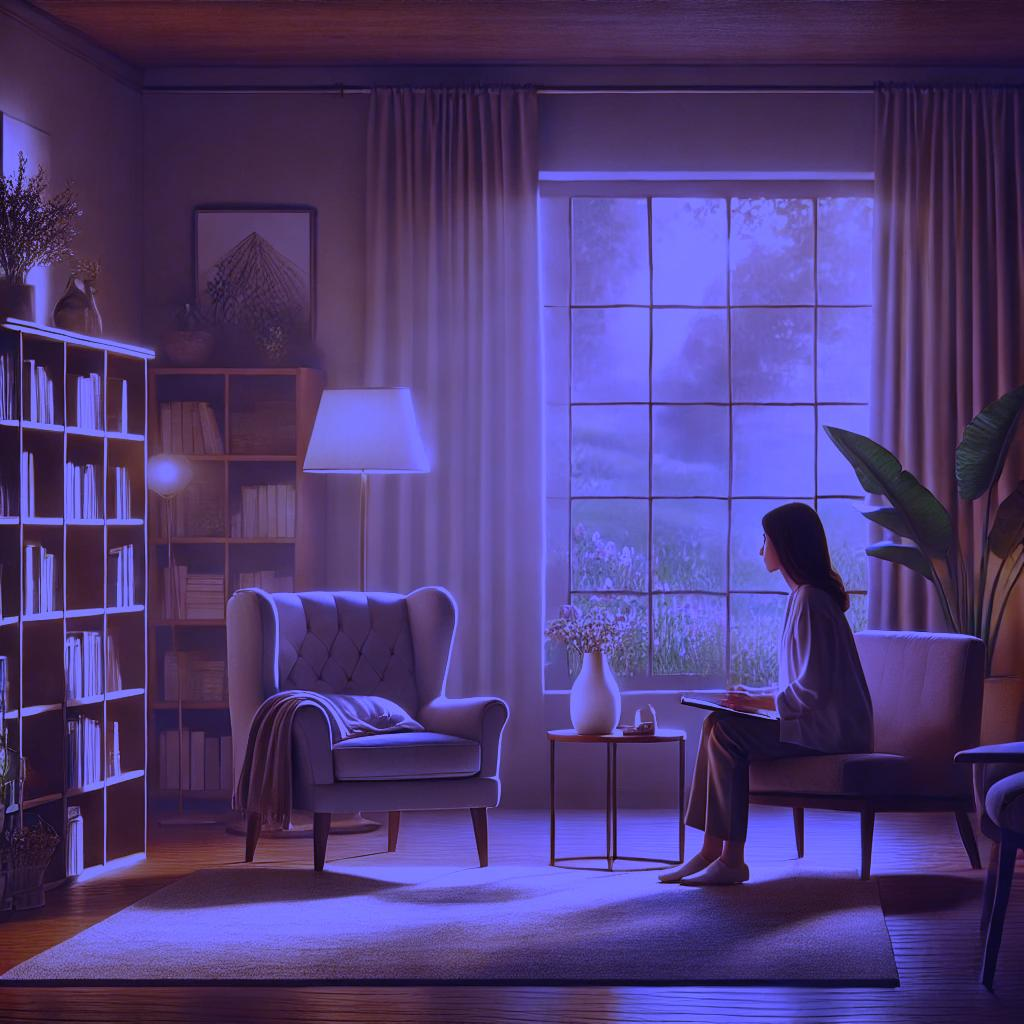
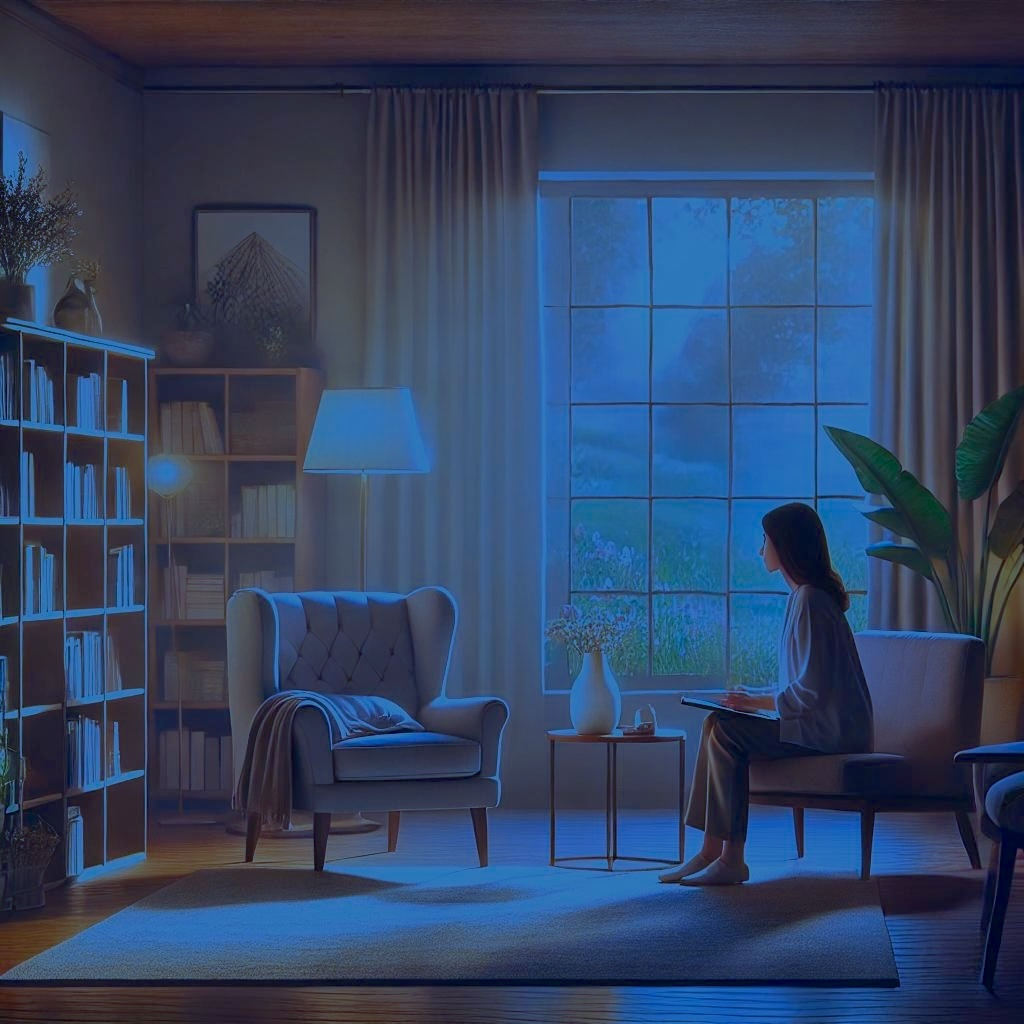
Hero image adjustment

diff --git a/dist/js/app.8de9a7c6.js b/dist/js/app.8de9a7c6.js
@@ -1,0 +1,2 @@
+(function(){"use strict";var e={6826:function(e,a,t){var n=t(5130),o=t(6768),i=t.p+"img/CSP_Logo_White_trans.813889ec.png";const l={id:"app"},r={class:"navbar"},s={class:"nav-links"},c=(0,o.Lk)("img",{src:i,alt:"Logo",class:"logo"},null,-1),d={class:"content"};function u(e,a,t,n,i,u){const v=(0,o.g2)("router-link"),h=(0,o.g2)("router-view");return(0,o.uX)(),(0,o.CE)("div",l,[(0,o.Lk)("nav",r,[(0,o.Lk)("ul",s,[c,(0,o.Lk)("li",null,[(0,o.bF)(v,{to:"/"},{default:(0,o.k6)((()=>[(0,o.eW)("Home")])),_:1})]),(0,o.Lk)("li",null,[(0,o.bF)(v,{to:"/human-givens"},{default:(0,o.k6)((()=>[(0,o.eW)("Human Givens")])),_:1})]),(0,o.Lk)("li",null,[(0,o.bF)(v,{to:"/contact"},{default:(0,o.k6)((()=>[(0,o.eW)("Contact")])),_:1})])])]),(0,o.Lk)("div",d,[(0,o.bF)(h)])])}var v={name:"App"},h=t(1241);const f=(0,h.A)(v,[["render",u]]);var p=f,m=t(1387),g=t.p+"img/galina.4134a9c6.jpg";const b=(0,o.Fv)('<section class="hero" data-v-3738e07b><div class="hero-content" data-v-3738e07b><h1 data-v-3738e07b>Galina Filipkova Counselling Tewkesbury</h1><p data-v-3738e07b>Professional and confidential counselling services in Tewkesbury</p></div></section><section class="intro" data-v-3738e07b><h2 data-v-3738e07b>About Me</h2><div class="portrait-container" data-v-3738e07b><img src="'+g+'" alt="Galina Filipkova" class="portrait" data-v-3738e07b></div><p data-v-3738e07b>Welcome to my counselling practice. I offer a safe and confidential space to explore your thoughts and feelings. With years of experience, I am here to help you navigate through your challenges and achieve personal growth.</p></section><section class="services" data-v-3738e07b><h2 data-v-3738e07b>Services</h2><ul data-v-3738e07b><li data-v-3738e07b>Individual Counselling</li><li data-v-3738e07b>Couples Counselling</li><li data-v-3738e07b>Family Therapy</li></ul></section>',3),y=[b];function w(e,a,t,n,i,l){return(0,o.uX)(),(0,o.CE)("div",null,y)}var k={name:"HomePage"};const L=(0,h.A)(k,[["render",w],["__scopeId","data-v-3738e07b"]]);var C=L;const _=e=>((0,o.Qi)("data-v-4da75a7e"),e=e(),(0,o.jt)(),e),x=_((()=>(0,o.Lk)("h1",null,"Contact Us",-1))),F=_((()=>(0,o.Lk)("label",{for:"name"},"Name:",-1))),A=_((()=>(0,o.Lk)("label",{for:"email"},"Email:",-1))),E=_((()=>(0,o.Lk)("label",{for:"message"},"Message:",-1))),O=_((()=>(0,o.Lk)("button",{type:"submit"},"Submit",-1)));function j(e,a,t,i,l,r){return(0,o.uX)(),(0,o.CE)("div",null,[x,(0,o.Lk)("form",{onSubmit:a[3]||(a[3]=(0,n.D$)(((...e)=>r.submitForm&&r.submitForm(...e)),["prevent"]))},[(0,o.Lk)("div",null,[F,(0,o.bo)((0,o.Lk)("input",{type:"text",id:"name","onUpdate:modelValue":a[0]||(a[0]=e=>l.name=e)},null,512),[[n.Jo,l.name]])]),(0,o.Lk)("div",null,[A,(0,o.bo)((0,o.Lk)("input",{type:"email",id:"email","onUpdate:modelValue":a[1]||(a[1]=e=>l.email=e)},null,512),[[n.Jo,l.email]])]),(0,o.Lk)("div",null,[E,(0,o.bo)((0,o.Lk)("textarea",{id:"message","onUpdate:modelValue":a[2]||(a[2]=e=>l.message=e)},null,512),[[n.Jo,l.message]])]),O],32)])}var W={name:"ContactPage",data(){return{name:"",email:"",message:""}},methods:{submitForm(){alert(`Message sent by ${this.name} (${this.email}): ${this.message}`),this.name="",this.email="",this.message=""}}};const I=(0,h.A)(W,[["render",j],["__scopeId","data-v-4da75a7e"]]);var H=I;const S=(0,o.Fv)('<section class="hero" data-v-9ade22c2><div class="hero-content" data-v-9ade22c2><h1 data-v-9ade22c2>Human Givens Therapy</h1></div></section><section class="intro" data-v-9ade22c2><h2 data-v-9ade22c2>What is Human Givens?</h2><p data-v-9ade22c2>The Human Givens approach offers a clear understanding of what we all need to feel emotionally well and be able to flourish in our individual lives:</p><ul data-v-9ade22c2><li data-v-9ade22c2><strong data-v-9ade22c2>Security</strong> – safe territory and an environment which allows us to develop fully</li><li data-v-9ade22c2><strong data-v-9ade22c2>Attention</strong> - to give it to and receive it from significant others</li><li data-v-9ade22c2><strong data-v-9ade22c2>Sense of autonomy and control</strong> – being able to make responsible choices about our own lives</li><li data-v-9ade22c2><strong data-v-9ade22c2>Emotional intimacy</strong> – to know that at least one other person accepts us totally for who we are</li><li data-v-9ade22c2><strong data-v-9ade22c2>Community</strong> – feeling connected to a group or groups beyond family</li><li data-v-9ade22c2><strong data-v-9ade22c2>Status</strong> – being appreciated for our contributions within the social groupings of which we are a part</li><li data-v-9ade22c2><strong data-v-9ade22c2>Privacy</strong> – opportunity to reflect and consolidate experience</li><li data-v-9ade22c2><strong data-v-9ade22c2>Achievement</strong> – when you can say to yourself: “I’m glad I did that!”</li><li data-v-9ade22c2><strong data-v-9ade22c2>Meaning</strong> – which comes from being stretched in what we do and how we think</li></ul><p data-v-9ade22c2>When one or more of these needs are not met in balance, which can happen to all of us from time to time, we may experience emotional distress and find it hard to chart a way through our difficulties.</p></section><section class="details" data-v-9ade22c2><h2 data-v-9ade22c2>What I will do:</h2><ul data-v-9ade22c2><li data-v-9ade22c2>Help you find ways to deal with the particular difficulties you are facing now.</li><li data-v-9ade22c2>Set clear goals which will allow you to keep track of your progress from session to session.</li><li data-v-9ade22c2>Aim to have you leave each session feeling better than when you arrived.</li><li data-v-9ade22c2>Explore with you what coping skills can be better developed and which available resources can be put to better use.</li><li data-v-9ade22c2>Explore with you if there is a past trauma event that could be making your life challenging now. An effective protocol is available to clear the lasting emotional effect of a trauma without the need to disclose upsetting and painful details.</li><li data-v-9ade22c2>Agree with you, at the end of each session, whether and when you need a further session. We work as a team.</li></ul></section>',3),G=[S];function P(e,a,t,n,i,l){return(0,o.uX)(),(0,o.CE)("div",null,G)}var T={name:"HumanGivens"};const M=(0,h.A)(T,[["render",P],["__scopeId","data-v-9ade22c2"]]);var U=M;const X=[{path:"/",component:C},{path:"/contact",component:H},{path:"/human-givens",component:U}],$=(0,m.aE)({history:(0,m.LA)(),routes:X});var J=$;(0,n.Ef)(p).use(J).mount("#app")}},a={};function t(n){var o=a[n];if(void 0!==o)return o.exports;var i=a[n]={exports:{}};return e[n].call(i.exports,i,i.exports,t),i.exports}t.m=e,function(){var e=[];t.O=function(a,n,o,i){if(!n){var l=1/0;for(d=0;d<e.length;d++){n=e[d][0],o=e[d][1],i=e[d][2];for(var r=!0,s=0;s<n.length;s++)(!1&i||l>=i)&&Object.keys(t.O).every((function(e){return t.O[e](n[s])}))?n.splice(s--,1):(r=!1,i<l&&(l=i));if(r){e.splice(d--,1);var c=o();void 0!==c&&(a=c)}}return a}i=i||0;for(var d=e.length;d>0&&e[d-1][2]>i;d--)e[d]=e[d-1];e[d]=[n,o,i]}}(),function(){t.n=function(e){var a=e&&e.__esModule?function(){return e["default"]}:function(){return e};return t.d(a,{a:a}),a}}(),function(){t.d=function(e,a){for(var n in a)t.o(a,n)&&!t.o(e,n)&&Object.defineProperty(e,n,{enumerable:!0,get:a[n]})}}(),function(){t.g=function(){if("object"===typeof globalThis)return globalThis;try{return this||new Function("return this")()}catch(e){if("object"===typeof window)return window}}()}(),function(){t.o=function(e,a){return Object.prototype.hasOwnProperty.call(e,a)}}(),function(){t.p="/"}(),function(){var e={524:0};t.O.j=function(a){return 0===e[a]};var a=function(a,n){var o,i,l=n[0],r=n[1],s=n[2],c=0;if(l.some((function(a){return 0!==e[a]}))){for(o in r)t.o(r,o)&&(t.m[o]=r[o]);if(s)var d=s(t)}for(a&&a(n);c<l.length;c++)i=l[c],t.o(e,i)&&e[i]&&e[i][0](),e[i]=0;return t.O(d)},n=self["webpackChunkcstestvuejs"]=self["webpackChunkcstestvuejs"]||[];n.forEach(a.bind(null,0)),n.push=a.bind(null,n.push.bind(n))}();var n=t.O(void 0,[504],(function(){return t(6826)}));n=t.O(n)})();
+//# sourceMappingURL=app.8de9a7c6.js.map

diff --git a/dist/css/app.83719802.css b/dist/css/app.83719802.css
@@ -1,0 +1,1 @@
+.navbar{position:fixed;top:0;width:100%;background-color:#333;z-index:1000;display:flex;align-items:center;justify-content:space-between;padding:0 20px}.logo{height:40px}.nav-links{list-style-type:none;margin:0;padding:0;display:flex;justify-content:center}.nav-links li{margin:0 15px}.nav-links li a{display:block;color:#fff;text-align:center;padding:14px 16px;text-decoration:none}.nav-links li a:hover{background-color:#111}.content{margin-top:70px}.hero[data-v-3738e07b]{background-image:url(/img/hero_image.1c93343b.jpg);background-size:cover;background-position:50%;color:#fff;text-align:center;padding:50px 20px}.hero-content[data-v-3738e07b]{max-width:800px;margin:auto}.intro[data-v-3738e07b],.services[data-v-3738e07b]{padding:20px;text-align:center}.intro h2[data-v-3738e07b],.services h2[data-v-3738e07b]{color:#333;margin-bottom:15px}.intro p[data-v-3738e07b],.services ul[data-v-3738e07b]{color:#666}.services ul[data-v-3738e07b]{list-style-type:none;padding:0}.services ul li[data-v-3738e07b]{margin:10px 0}.portrait-container[data-v-3738e07b]{display:flex;justify-content:center;margin:20px 0}.portrait[data-v-3738e07b]{border:5px solid #add8e6;border-radius:10px;width:200px;height:auto}h1[data-v-4da75a7e]{color:green}form[data-v-4da75a7e]{max-width:500px}form div[data-v-4da75a7e]{margin-bottom:10px}.hero[data-v-9ade22c2]{background-color:#00509e;color:#fff;text-align:center;padding:50px 20px}.hero-content[data-v-9ade22c2]{max-width:800px;margin:auto}.details[data-v-9ade22c2],.intro[data-v-9ade22c2]{padding:20px;text-align:left;max-width:800px;margin:auto}.details h2[data-v-9ade22c2],.intro h2[data-v-9ade22c2]{color:#333;margin-bottom:15px}.details ul[data-v-9ade22c2],.intro p[data-v-9ade22c2]{color:#666}.details ul[data-v-9ade22c2]{list-style-type:none;padding:0}.details ul li[data-v-9ade22c2]{margin:10px 0}

diff --git a/dist/index.html b/dist/index.html
@@ -1,1 +1,1 @@
-<!doctype html><html lang="en"><head><meta charset="UTF-8"><meta name="viewport" content="width=device-width,initial-scale=1"><title>Vue.js Static Website</title><script defer="defer" src="/js/chunk-vendors.01b0511f.js"></script><script defer="defer" src="/js/app.0ddbf070.js"></script><link href="/css/app.5f7fd616.css" rel="stylesheet"></head><body><div id="app"></div></body></html>
+<!doctype html><html lang="en"><head><meta charset="UTF-8"><meta name="viewport" content="width=device-width,initial-scale=1"><title>Clear Skies Practice</title><script defer="defer" src="/js/chunk-vendors.01b0511f.js"></script><script defer="defer" src="/js/app.8de9a7c6.js"></script><link href="/css/app.83719802.css" rel="stylesheet"></head><body><div id="app"></div></body></html>

diff --git a/src/App.vue b/src/App.vue
@@ -2,7 +2,7 @@
   <div id="app">
     <nav class="navbar">
       <ul class="nav-links">
-        <img src="@/assets/CSP_Logo_White.png" alt="Logo" class="logo">
+        <img src="@/assets/CSP_Logo_White_trans.png" alt="Logo" class="logo">
         <li><router-link to="/">Home</router-link></li>
         <li><router-link to="/human-givens">Human Givens</router-link></li>
         <li><router-link to="/contact">Contact</router-link></li>

diff --git a/src/components/HomePage.vue b/src/components/HomePage.vue
@@ -2,7 +2,7 @@
   <div>
     <section class="hero">
       <div class="hero-content">
-        <h1>Galina Filipkova Counselling Tewkesbury</h1>
+        <h1>Clear Skies Practice Tewkesbury</h1>
         <p>Professional and confidential counselling services in Tewkesbury</p>
       </div>
     </section>
